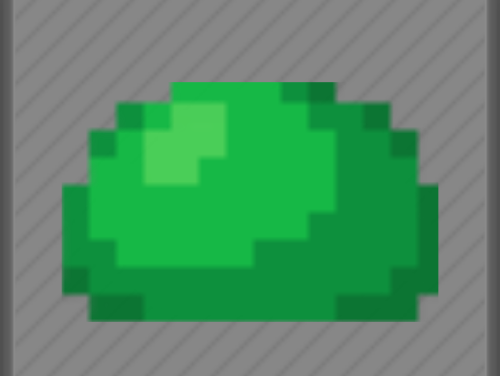
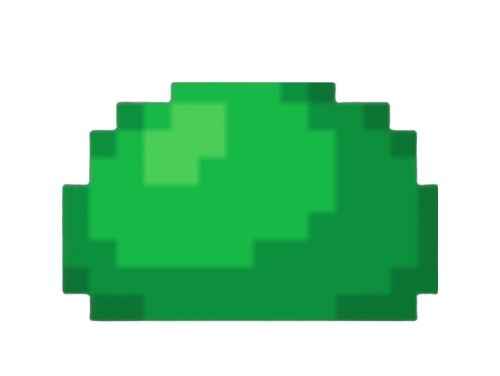
Sprite transparent et javadoc

diff --git a/jeupocmon/src/main/java/com/exemple/View/ShopView.java b/jeupocmon/src/main/java/com/exemple/View/ShopView.java
@@ -7,6 +7,9 @@ import javax.swing.*;
 import java.awt.*;
 import java.util.Enumeration;
 
+/**
+ * Classe représentant la vue du shop
+ */
 public class ShopView extends JFrame {
 
     /**
@@ -30,7 +33,7 @@ public class ShopView extends JFrame {
     private JPanel items = new JPanel();
 
     /**
-     * Le groupe de boutons pour les niveaux
+     * Le groupe de boutons pour les items
      */
     private ButtonGroup groupItems = new ButtonGroup();
 
@@ -48,6 +51,7 @@ public class ShopView extends JFrame {
      *
      * @param width
      * @param height
+     * @param m la vue du menu
      */
     public ShopView(int width, int height, MenuView m){
         menuView = m;
@@ -99,6 +103,10 @@ public class ShopView extends JFrame {
         pane.add(Box.createVerticalGlue());
         panel.setBorder(BorderFactory.createEmptyBorder(100,325,0,0));
     }
+
+    /**
+     * Procédure privée pour parametrer la vue.
+     */
     private void shopViewSettings(int width, int height)
     {
         setIconImage(new ImageIcon(ImageManager.getInstance().getImage("ShopIcon")).getImage());
@@ -125,14 +133,27 @@ public class ShopView extends JFrame {
         pane.add(panel);
     }
 
+
+    /**
+     * Fonction qui retourne le bouton "sauvegarder"
+     * @return le bouton sauvegarder
+     */
     public JButton getSave() {
         return save;
     }
 
+    /**
+     * Fonction qui retourne le bouton "quitter"
+     * @return le bouton sauvegarder
+     */
     public JButton getExit() {
         return exit;
     }
 
+    /**
+     * Fonction qui retourne le groupe de boutons pour le choix des items
+     * @return le groupe de boutons pour le choix des items
+     */
     public ButtonGroup getGroupItems() {
         return groupItems;
     }

diff --git a/jeupocmon/src/main/java/com/exemple/View/PersonnageView.java b/jeupocmon/src/main/java/com/exemple/View/PersonnageView.java
@@ -34,24 +34,24 @@ public class PersonnageView extends JPanel {
 
     /**
      * Constructeur de PersonnageView en fonction du Personnage p
-     *
      * @param p
      */
     public PersonnageView(Personnage p,int sword) {
         this.p = p;
         this.sword = sword;
+        setOpaque(false);
         setPreferredSize(new Dimension(30, 30));
     }
 
 
     /**
      * procédure permettant d'afficher le Personnage
-     *
      * @param g
      */
     @Override
     protected void paintComponent(Graphics g) {
         super.paintComponent(g);
+        setOpaque(false);
         BufferedImage image = null;
         BufferedImage epee = null;
         if(p.estMonstre()) {
@@ -124,7 +124,6 @@ public class PersonnageView extends JPanel {
 
     /**
      * Procédure qui gère l'affichage de la vie (points de vie) du Personnage
-     *
      * @param g
      */
     public void gestionVie(Graphics g) {

diff --git a/jeupocmon/src/main/java/com/exemple/View/JeuView.java b/jeupocmon/src/main/java/com/exemple/View/JeuView.java
@@ -45,7 +45,6 @@ public class JeuView extends JFrame implements Runnable{
         this.sword = sword;
         int sizeLab = jeu.getSizeLab();
         this.viewmonstres = new ArrayList<>();
-
         labView = new LabyrintheView(sizeLab);
         Joueur joueur = jeu.getJoueur();
         ArrayList<Monstre> monstre = jeu.getMonstre();
@@ -55,7 +54,6 @@ public class JeuView extends JFrame implements Runnable{
         setTitle("Jeu Pocmon - Niveau " + jeu.getNiveau());
         this.setDefaultCloseOperation(JFrame.EXIT_ON_CLOSE);
         this.setLayout(new GridLayout(sizeLab, sizeLab));
-
         for (int i = 0; i < sizeLab; i++) {
             for (int j = 0; j < sizeLab; j++) {
                     Case currentCase = jeu.getLab().getCase(j, i);

diff --git a/jeupocmon/src/main/java/com/exemple/Controller/ShopController.java b/jeupocmon/src/main/java/com/exemple/Controller/ShopController.java
@@ -51,6 +51,11 @@ public class ShopController implements ActionListener {
         return  price;
     }
 
+    /**
+     * Procédure héritée de ActionListener
+     * Permet de gérér les événements du shop
+     * @param e l'événement
+     */
     @Override
     public void actionPerformed(ActionEvent e) {
         Object source = e.getSource();

diff --git a/jeupocmon/src/main/java/com/exemple/View/OptionView.java b/jeupocmon/src/main/java/com/exemple/View/OptionView.java
@@ -78,6 +78,9 @@ public class OptionView extends JFrame {
 
     }
 
+    /**
+     * Procédure privée pour parametrer la vue.
+     */
     private void optionViewSettings(int width, int height)
     {
         setIconImage(new ImageIcon(ImageManager.getInstance().getImage("SettingsIcon")).getImage());

diff --git a/jeupocmon/src/main/java/com/exemple/Controller/OptionController.java b/jeupocmon/src/main/java/com/exemple/Controller/OptionController.java
@@ -38,7 +38,7 @@ public class OptionController implements ActionListener {
 
     /**
      * Procédure héritée de ActionListener
-     * Permet de gérér les événements du menu
+     * Permet de gérér les événements des options
      * @param actionEvent l'événement
      */
     @Override
